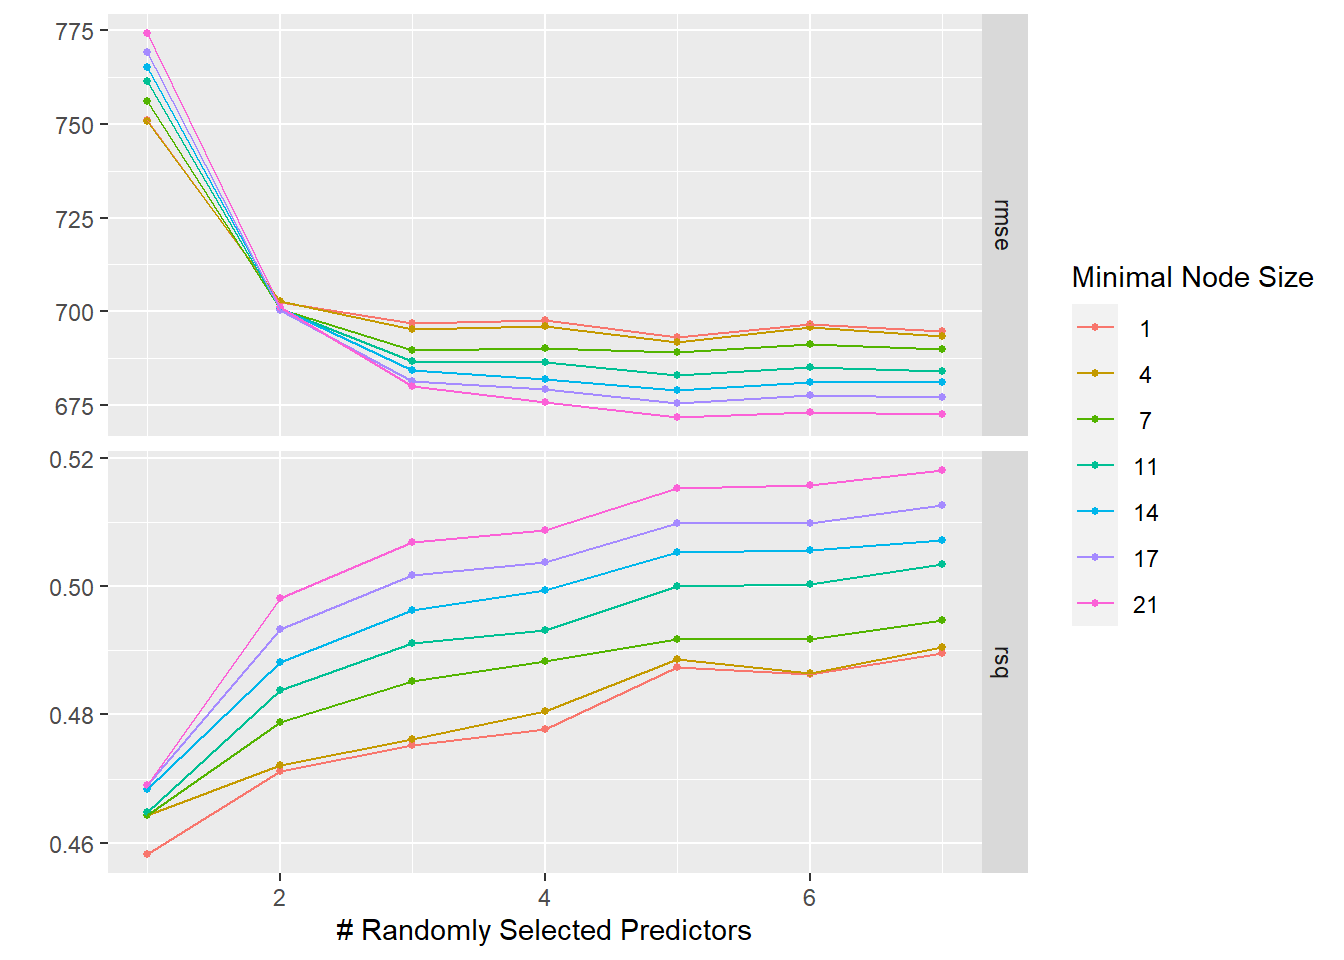
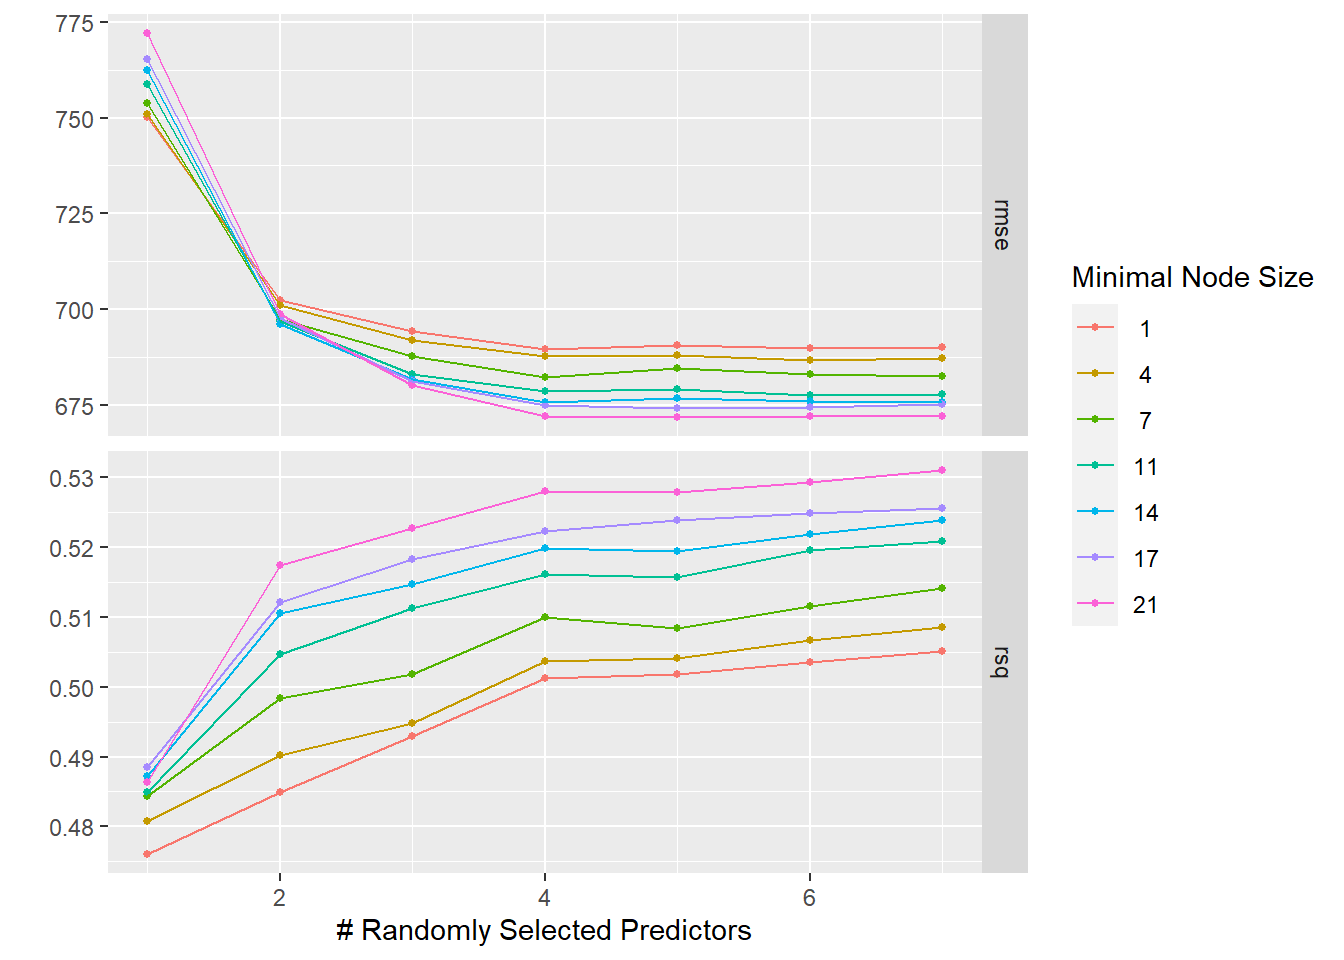
ml exercise (update 3)

diff --git a/docs/ml-models-exercise/ml-models-exercise.html b/docs/ml-models-exercise/ml-models-exercise.html
@@ -288,7 +288,7 @@ Attaching package: 'dplyr'</code></pre>
 ✖ dplyr::filter()  masks stats::filter()
 ✖ dplyr::lag()     masks stats::lag()
 ✖ recipes::step()  masks stats::step()
-• Dig deeper into tidy modeling with R at https://www.tmwr.org</code></pre>
+• Use suppressPackageStartupMessages() to eliminate package startup messages</code></pre>
 </div>
 <div class="sourceCode cell-code" id="cb23"><pre class="sourceCode r code-with-copy"><code class="sourceCode r"><span id="cb23-1"><a href="#cb23-1" aria-hidden="true" tabindex="-1"></a><span class="fu">library</span>(ggplot2)</span>
 <span id="cb23-2"><a href="#cb23-2" aria-hidden="true" tabindex="-1"></a><span class="fu">library</span>(corrplot)</span></code><button title="Copy to Clipboard" class="code-copy-button"><i class="bi"></i></button></pre></div>
@@ -623,13 +623,17 @@ Attaching package: 'Matrix'</code></pre>
 <p>The plot shows how RMSE changes as the tuning parameters change. The best results (lowest RMSE values) are for higher values of randomly selected predictors (mtry) and lower values of minimal node size (min_n).</p>
 <p>Now let’s do proper tuning by using 5-fold cross-validation repeated 5 times to evaluate model performance during the tuning process. Let’s start with the LASSO model.</p>
 <div class="cell">
-<div class="sourceCode cell-code" id="cb54"><pre class="sourceCode r code-with-copy"><code class="sourceCode r"><span id="cb54-1"><a href="#cb54-1" aria-hidden="true" tabindex="-1"></a><span class="co">#Tune the model with cross-validation</span></span>
-<span id="cb54-2"><a href="#cb54-2" aria-hidden="true" tabindex="-1"></a>tuned_lasso_cv <span class="ot">&lt;-</span> <span class="fu">tune_grid</span>(wflow2,</span>
-<span id="cb54-3"><a href="#cb54-3" aria-hidden="true" tabindex="-1"></a>  <span class="at">resamples =</span> <span class="fu">vfold_cv</span>(mavoglurant, <span class="at">v =</span> <span class="dv">5</span>, <span class="at">repeats =</span> <span class="dv">5</span>),</span>
-<span id="cb54-4"><a href="#cb54-4" aria-hidden="true" tabindex="-1"></a>  <span class="at">grid =</span> penalty_grid)</span>
-<span id="cb54-5"><a href="#cb54-5" aria-hidden="true" tabindex="-1"></a></span>
-<span id="cb54-6"><a href="#cb54-6" aria-hidden="true" tabindex="-1"></a><span class="co">#Look at tuning diagnostics</span></span>
-<span id="cb54-7"><a href="#cb54-7" aria-hidden="true" tabindex="-1"></a><span class="fu">autoplot</span>(tuned_lasso_cv)</span></code><button title="Copy to Clipboard" class="code-copy-button"><i class="bi"></i></button></pre></div>
+<div class="sourceCode cell-code" id="cb54"><pre class="sourceCode r code-with-copy"><code class="sourceCode r"><span id="cb54-1"><a href="#cb54-1" aria-hidden="true" tabindex="-1"></a><span class="co">#Set a seed</span></span>
+<span id="cb54-2"><a href="#cb54-2" aria-hidden="true" tabindex="-1"></a>rngseed <span class="ot">=</span> <span class="dv">1234</span></span>
+<span id="cb54-3"><a href="#cb54-3" aria-hidden="true" tabindex="-1"></a><span class="fu">set.seed</span>(rngseed)</span>
+<span id="cb54-4"><a href="#cb54-4" aria-hidden="true" tabindex="-1"></a></span>
+<span id="cb54-5"><a href="#cb54-5" aria-hidden="true" tabindex="-1"></a><span class="co">#Tune the model with cross-validation</span></span>
+<span id="cb54-6"><a href="#cb54-6" aria-hidden="true" tabindex="-1"></a>tuned_lasso_cv <span class="ot">&lt;-</span> <span class="fu">tune_grid</span>(wflow2,</span>
+<span id="cb54-7"><a href="#cb54-7" aria-hidden="true" tabindex="-1"></a>  <span class="at">resamples =</span> <span class="fu">vfold_cv</span>(mavoglurant, <span class="at">v =</span> <span class="dv">5</span>, <span class="at">repeats =</span> <span class="dv">5</span>),</span>
+<span id="cb54-8"><a href="#cb54-8" aria-hidden="true" tabindex="-1"></a>  <span class="at">grid =</span> penalty_grid)</span>
+<span id="cb54-9"><a href="#cb54-9" aria-hidden="true" tabindex="-1"></a></span>
+<span id="cb54-10"><a href="#cb54-10" aria-hidden="true" tabindex="-1"></a><span class="co">#Look at tuning diagnostics</span></span>
+<span id="cb54-11"><a href="#cb54-11" aria-hidden="true" tabindex="-1"></a><span class="fu">autoplot</span>(tuned_lasso_cv)</span></code><button title="Copy to Clipboard" class="code-copy-button"><i class="bi"></i></button></pre></div>
 <div class="cell-output-display">
 <div>
 <figure class="figure">
@@ -641,13 +645,17 @@ Attaching package: 'Matrix'</code></pre>
 <p>The plot for the LASSO model tuned with cross-validation shows that the LASSO model does best (lowest RMSE value) for low penalty values, and the RMSE value increases as the amount of regularization (penalty parameter) increases.</p>
 <p>Finally, let’s tune the random forest model with cross-validation.</p>
 <div class="cell">
-<div class="sourceCode cell-code" id="cb55"><pre class="sourceCode r code-with-copy"><code class="sourceCode r"><span id="cb55-1"><a href="#cb55-1" aria-hidden="true" tabindex="-1"></a><span class="co">#Tune the model with cross-validation</span></span>
-<span id="cb55-2"><a href="#cb55-2" aria-hidden="true" tabindex="-1"></a>tuned_rf_cv <span class="ot">&lt;-</span> <span class="fu">tune_grid</span>(wflow3,</span>
-<span id="cb55-3"><a href="#cb55-3" aria-hidden="true" tabindex="-1"></a>  <span class="at">resamples =</span> <span class="fu">vfold_cv</span>(mavoglurant, <span class="at">v =</span> <span class="dv">5</span>, <span class="at">repeats =</span> <span class="dv">5</span>),</span>
-<span id="cb55-4"><a href="#cb55-4" aria-hidden="true" tabindex="-1"></a>  <span class="at">grid =</span> tuning_grid)</span>
-<span id="cb55-5"><a href="#cb55-5" aria-hidden="true" tabindex="-1"></a></span>
-<span id="cb55-6"><a href="#cb55-6" aria-hidden="true" tabindex="-1"></a><span class="co">#Look at tuning diagnostics</span></span>
-<span id="cb55-7"><a href="#cb55-7" aria-hidden="true" tabindex="-1"></a><span class="fu">autoplot</span>(tuned_rf_cv)</span></code><button title="Copy to Clipboard" class="code-copy-button"><i class="bi"></i></button></pre></div>
+<div class="sourceCode cell-code" id="cb55"><pre class="sourceCode r code-with-copy"><code class="sourceCode r"><span id="cb55-1"><a href="#cb55-1" aria-hidden="true" tabindex="-1"></a><span class="co">#Set a seed</span></span>
+<span id="cb55-2"><a href="#cb55-2" aria-hidden="true" tabindex="-1"></a>rngseed <span class="ot">=</span> <span class="dv">1234</span></span>
+<span id="cb55-3"><a href="#cb55-3" aria-hidden="true" tabindex="-1"></a><span class="fu">set.seed</span>(rngseed)</span>
+<span id="cb55-4"><a href="#cb55-4" aria-hidden="true" tabindex="-1"></a></span>
+<span id="cb55-5"><a href="#cb55-5" aria-hidden="true" tabindex="-1"></a><span class="co">#Tune the model with cross-validation</span></span>
+<span id="cb55-6"><a href="#cb55-6" aria-hidden="true" tabindex="-1"></a>tuned_rf_cv <span class="ot">&lt;-</span> <span class="fu">tune_grid</span>(wflow3,</span>
+<span id="cb55-7"><a href="#cb55-7" aria-hidden="true" tabindex="-1"></a>  <span class="at">resamples =</span> <span class="fu">vfold_cv</span>(mavoglurant, <span class="at">v =</span> <span class="dv">5</span>, <span class="at">repeats =</span> <span class="dv">5</span>),</span>
+<span id="cb55-8"><a href="#cb55-8" aria-hidden="true" tabindex="-1"></a>  <span class="at">grid =</span> tuning_grid)</span>
+<span id="cb55-9"><a href="#cb55-9" aria-hidden="true" tabindex="-1"></a></span>
+<span id="cb55-10"><a href="#cb55-10" aria-hidden="true" tabindex="-1"></a><span class="co">#Look at tuning diagnostics</span></span>
+<span id="cb55-11"><a href="#cb55-11" aria-hidden="true" tabindex="-1"></a><span class="fu">autoplot</span>(tuned_rf_cv)</span></code><button title="Copy to Clipboard" class="code-copy-button"><i class="bi"></i></button></pre></div>
 <div class="cell-output-display">
 <div>
 <figure class="figure">
